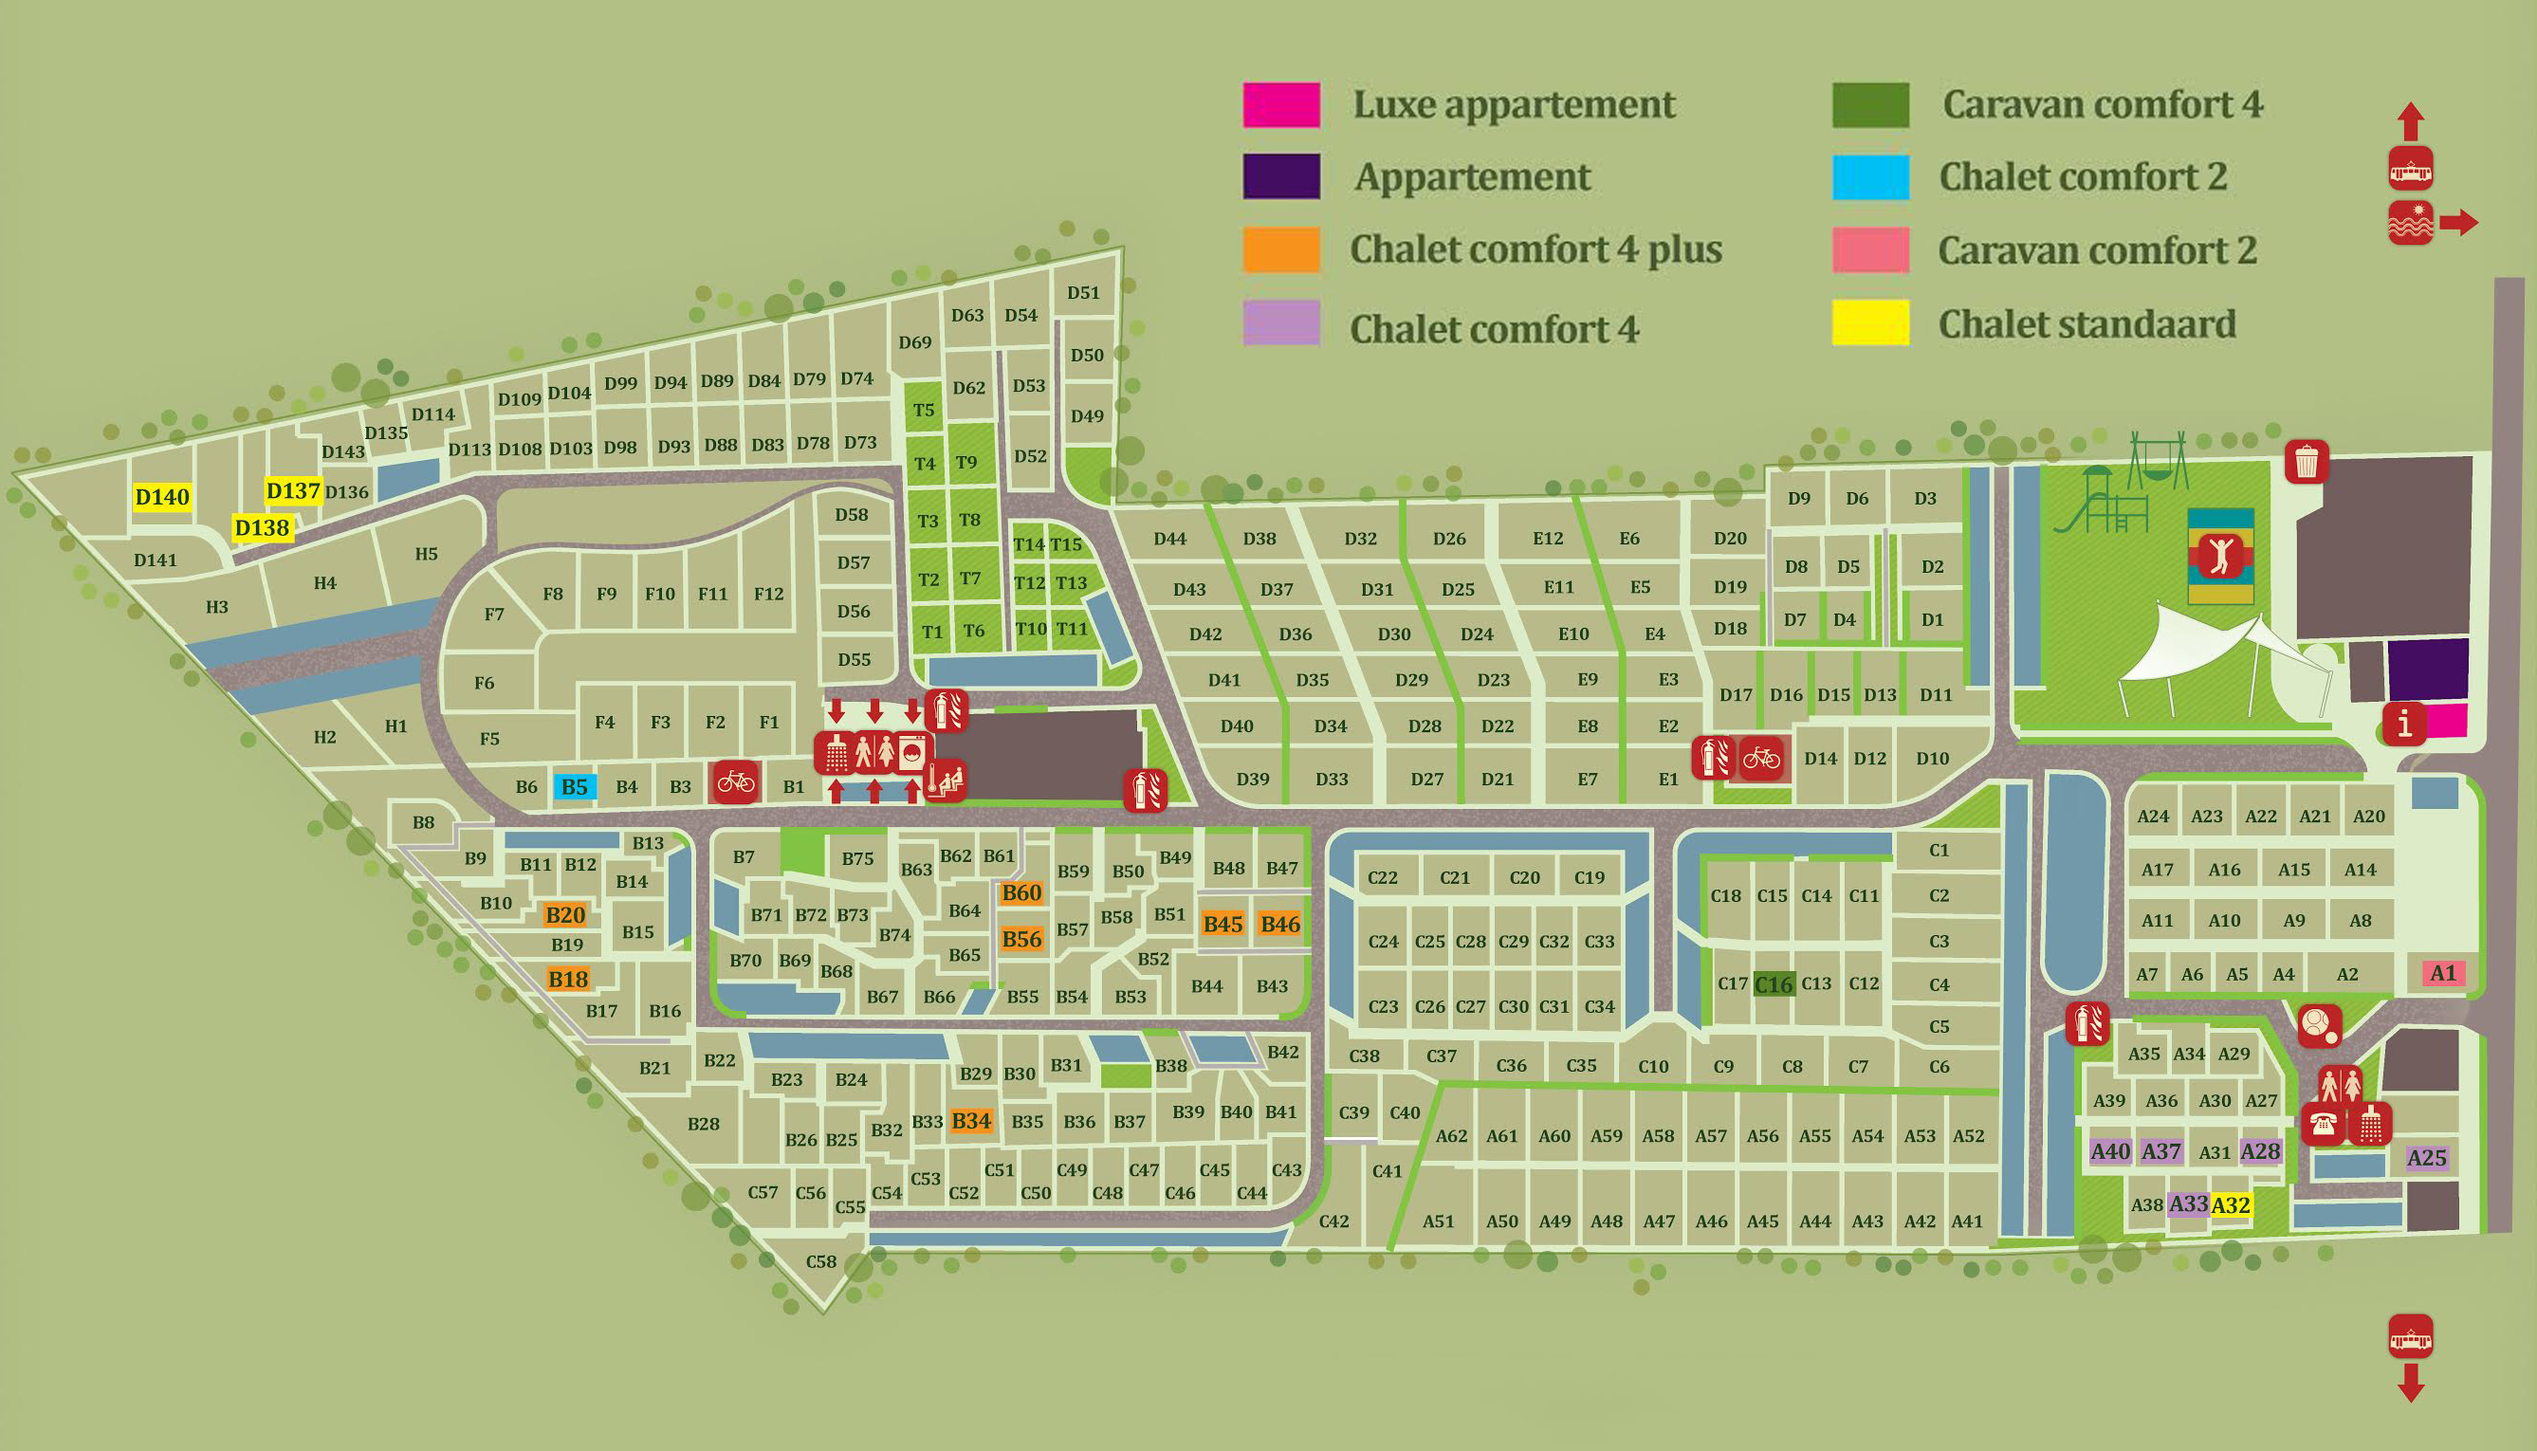
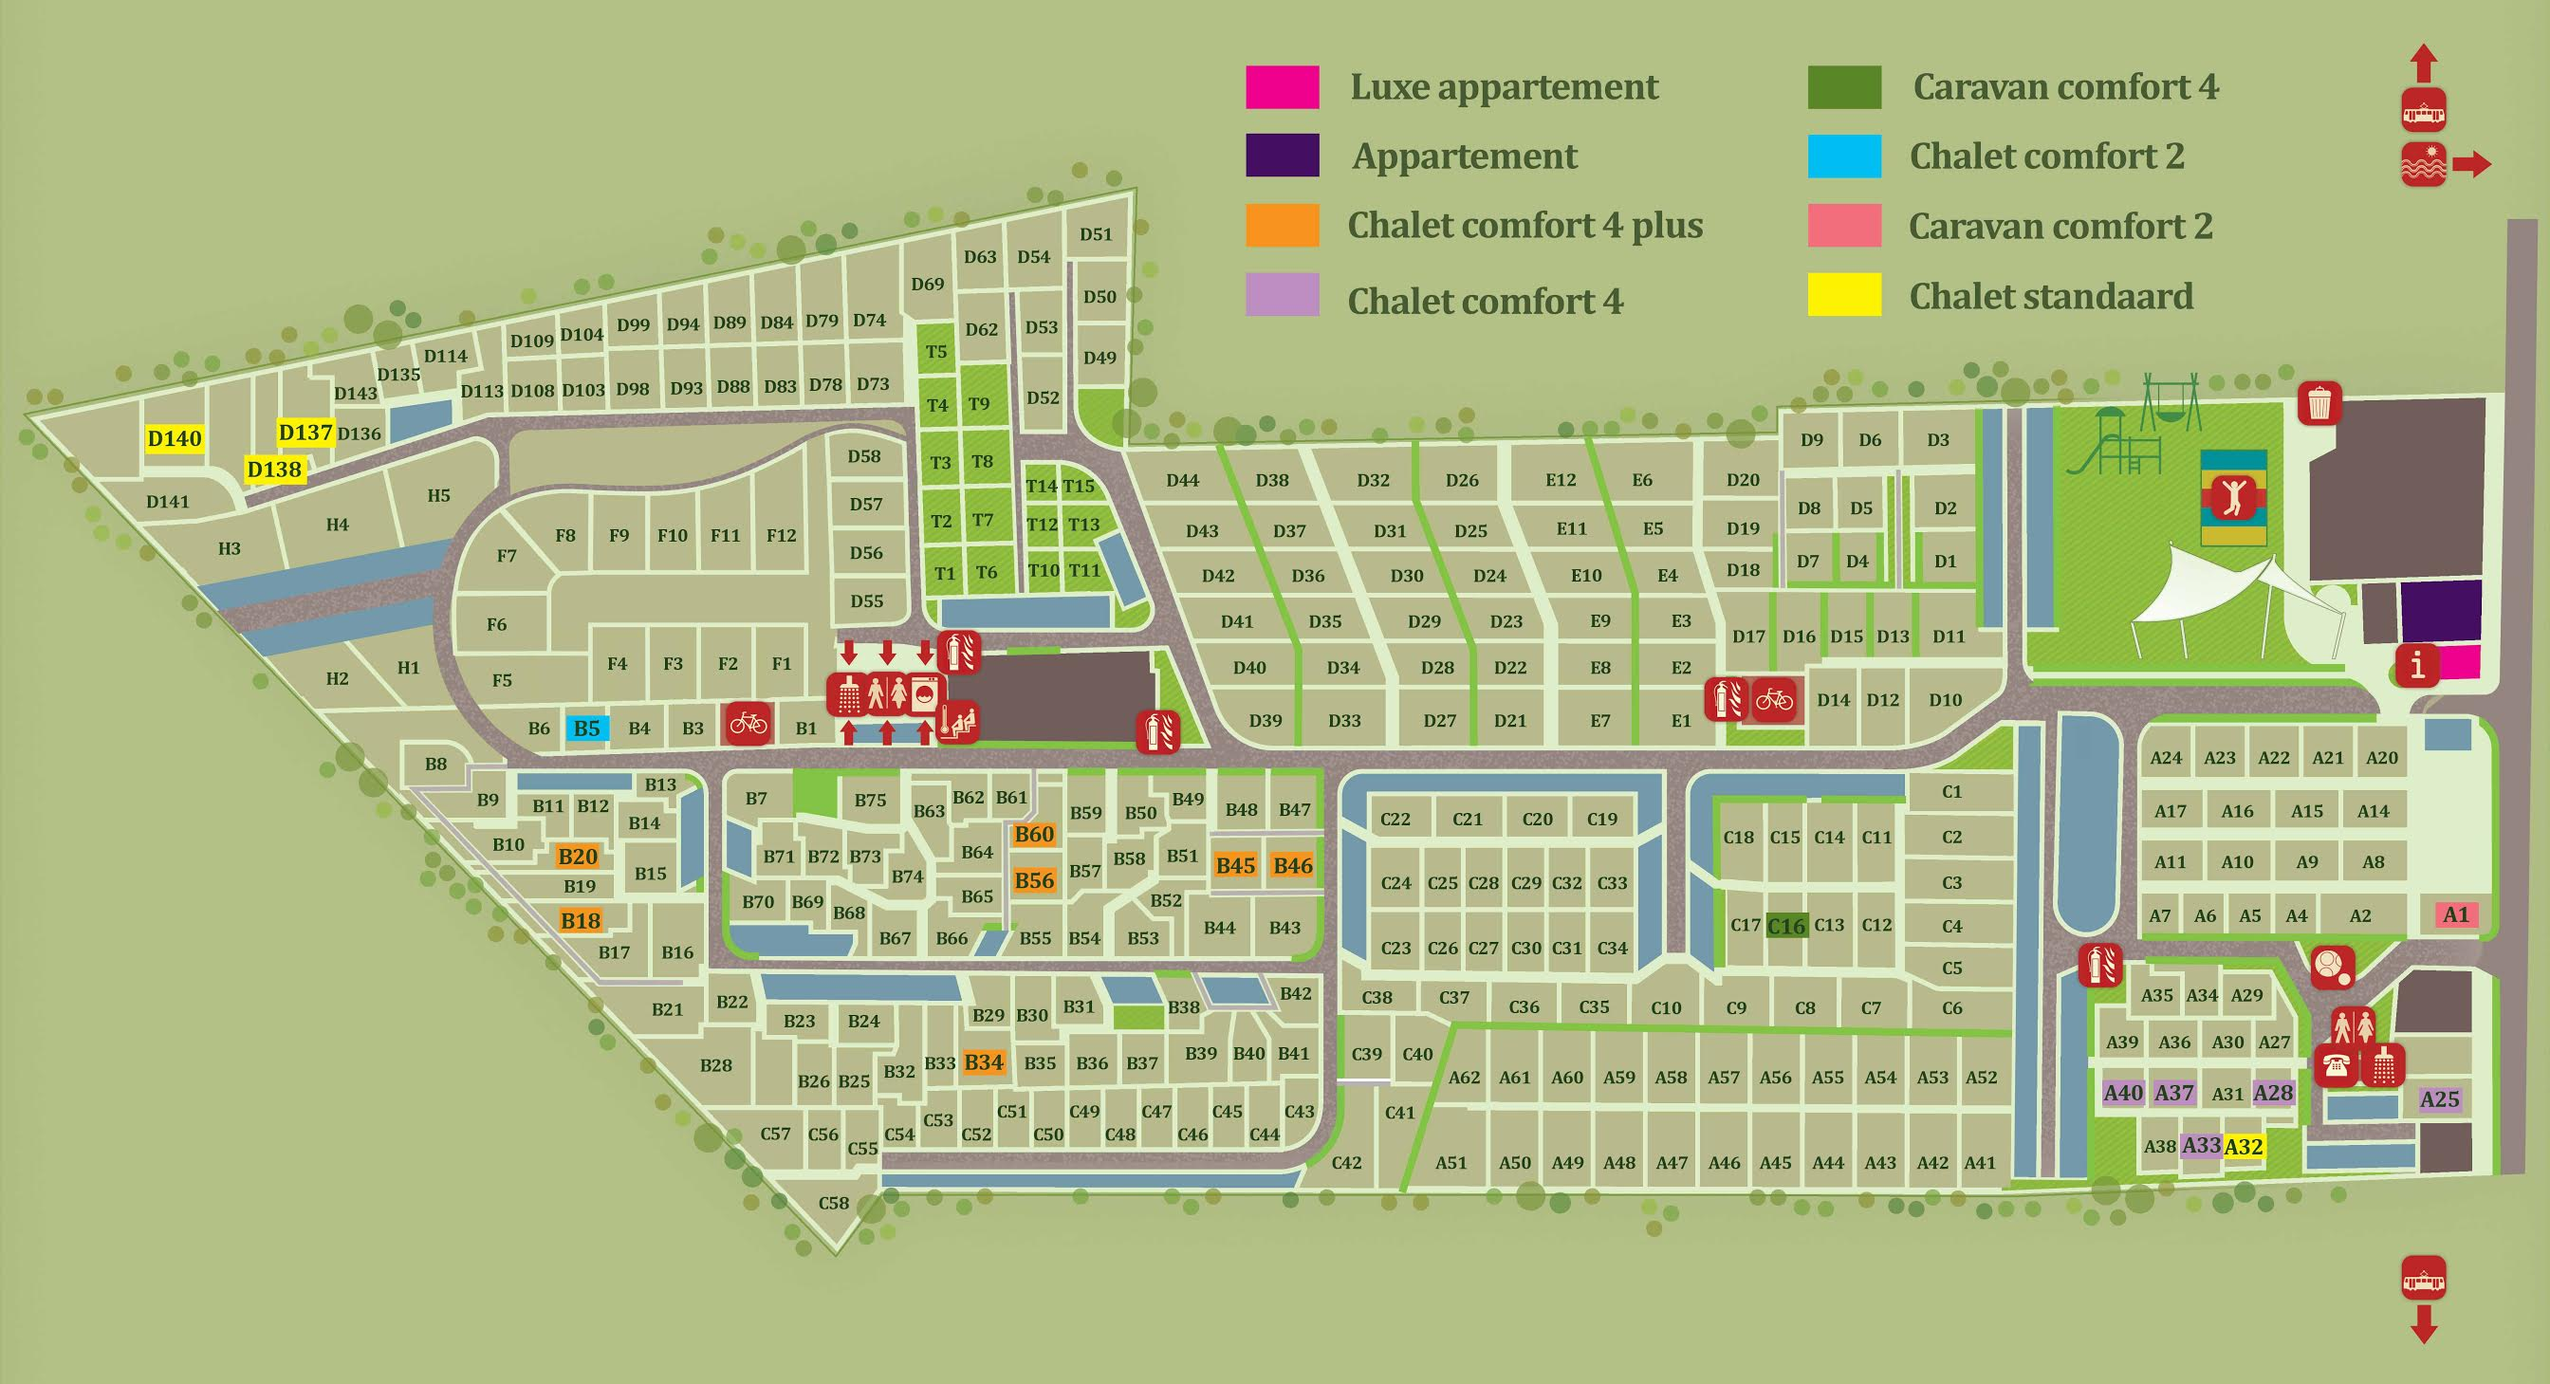
aangepaste plannen + inlinken op de verhuur-pagina's

Changed region(s): [[0.0, 0.0308, 0.9929, 0.9253], [0.9308, 0.0308, 1.0, 0.1851], [0.9308, 0.8944, 0.9619, 0.9561]]

diff --git a/de/uebernachten/vermietung/appartement.md b/de/uebernachten/vermietung/appartement.md
@@ -106,5 +106,4 @@ Parkplatz extra Auto  | € 4 / angefangenem Tag
 
 ## Plan Campingplatz
 
-[invoegen plan][plan.de]
-aanduiden met kleur op plan welke percelen - Joke?
+![Plan Campingplatz][plan_verhuur.de]

diff --git a/de/uebernachten/vermietung/comfort2-caravan.md b/de/uebernachten/vermietung/comfort2-caravan.md
@@ -109,5 +109,4 @@ Parkplatz extra Auto  | € 4 / angefangenem Tag
 
 ## Plan Campingplatz
 
-[invoegen plan][plan.de]
-aanduiden met kleur op plan welke percelen - Joke?
+![Plan Campingplatz][plan_verhuur.de]

diff --git a/de/uebernachten/vermietung/comfort2-chalet.md b/de/uebernachten/vermietung/comfort2-chalet.md
@@ -107,5 +107,4 @@ Parkplatz extra Auto  | € 4 / angefangenem Tag
 
 ## Plan Campingplatz
 
-[invoegen plan][plan.de]
-aanduiden met kleur op plan welke percelen - Joke?
+![Plan Campingplatz][plan_verhuur.de]

diff --git a/de/uebernachten/vermietung/comfort4-caravan.md b/de/uebernachten/vermietung/comfort4-caravan.md
@@ -109,5 +109,4 @@ Parkplatz extra Auto  | € 4 / angefangenem Tag
 
 ## Plan Campingplatz
 
-[invoegen plan][plan.de]
-aanduiden met kleur op plan welke percelen - Joke?
+![Plan Campingplatz][plan_verhuur.de]

diff --git a/de/uebernachten/vermietung/comfort4-chalet.md b/de/uebernachten/vermietung/comfort4-chalet.md
@@ -106,5 +106,4 @@ Parkplatz extra Auto  | € 4 / angefangenem Tag
 
 ## Plan Campingplatz
 
-[invoegen plan][plan.de]
-aanduiden met kleur op plan welke percelen - Joke?
+![Plan Campingplatz][plan_verhuur.de]

diff --git a/de/uebernachten/vermietung/comfort4plus-chalet.md b/de/uebernachten/vermietung/comfort4plus-chalet.md
@@ -108,5 +108,4 @@ Parkplatz extra Auto  | € 4 / angefangenem Tag
 
 ## Plan Campingplatz
 
-[invoegen plan][plan.de]
-aanduiden met kleur op plan welke percelen - Joke?
+![Plan Campingplatz][plan_verhuur.de]

diff --git a/de/uebernachten/vermietung/luxusappartemente.md b/de/uebernachten/vermietung/luxusappartemente.md
@@ -114,5 +114,4 @@ Parkplatz extra Auto  | € 4 / angefangenem Tag
 
 ## Plan Campingplatz
 
-[invoegen plan][plan.de]
-aanduiden met kleur op plan welke percelen - Joke?
+![Plan Campingplatz][plan_verhuur.de]

diff --git a/de/uebernachten/vermietung/standard-chalet.md b/de/uebernachten/vermietung/standard-chalet.md
@@ -109,5 +109,4 @@ Parkplatz extra Auto  | € 4 / angefangenem Tag
 
 ## Plan Campingplatz
 
-[invoegen plan][plan.de]
-aanduiden met kleur op plan welke percelen - Joke?
+![Plan Campingplatz][plan_verhuur.de]

diff --git a/fr/hebergement/location/appartement-de-luxe.md b/fr/hebergement/location/appartement-de-luxe.md
@@ -114,4 +114,4 @@ parking voiture supplémentaire  | € 4 / jour entamé
 
 ##Plan du camping
 
-[invoegen plan][plan.fr]
+![Plan du camping][plan_verhuur.fr]

diff --git a/fr/hebergement/location/appartement.md b/fr/hebergement/location/appartement.md
@@ -106,4 +106,4 @@ parking voiture supplémentaire  | € 4 / jour entamé
 
 ##Plan du camping
 
-[invoegen plan][plan.fr]
+![Plan du camping][plan_verhuur.fr]

diff --git a/fr/hebergement/location/caravane-confort2.md b/fr/hebergement/location/caravane-confort2.md
@@ -109,4 +109,4 @@ parking voiture supplémentaire  | € 4 / jour entamé
 
 ##Plan du camping
 
-[invoegen plan][plan.fr]
+![Plan du camping][plan_verhuur.fr]

diff --git a/fr/hebergement/location/caravane-confort4.md b/fr/hebergement/location/caravane-confort4.md
@@ -110,4 +110,4 @@ parking voiture supplémentaire  | € 4 / jour entamé
 
 ##Plan du camping
 
-[invoegen plan][plan.fr]
+![Plan du camping][plan_verhuur.fr]
